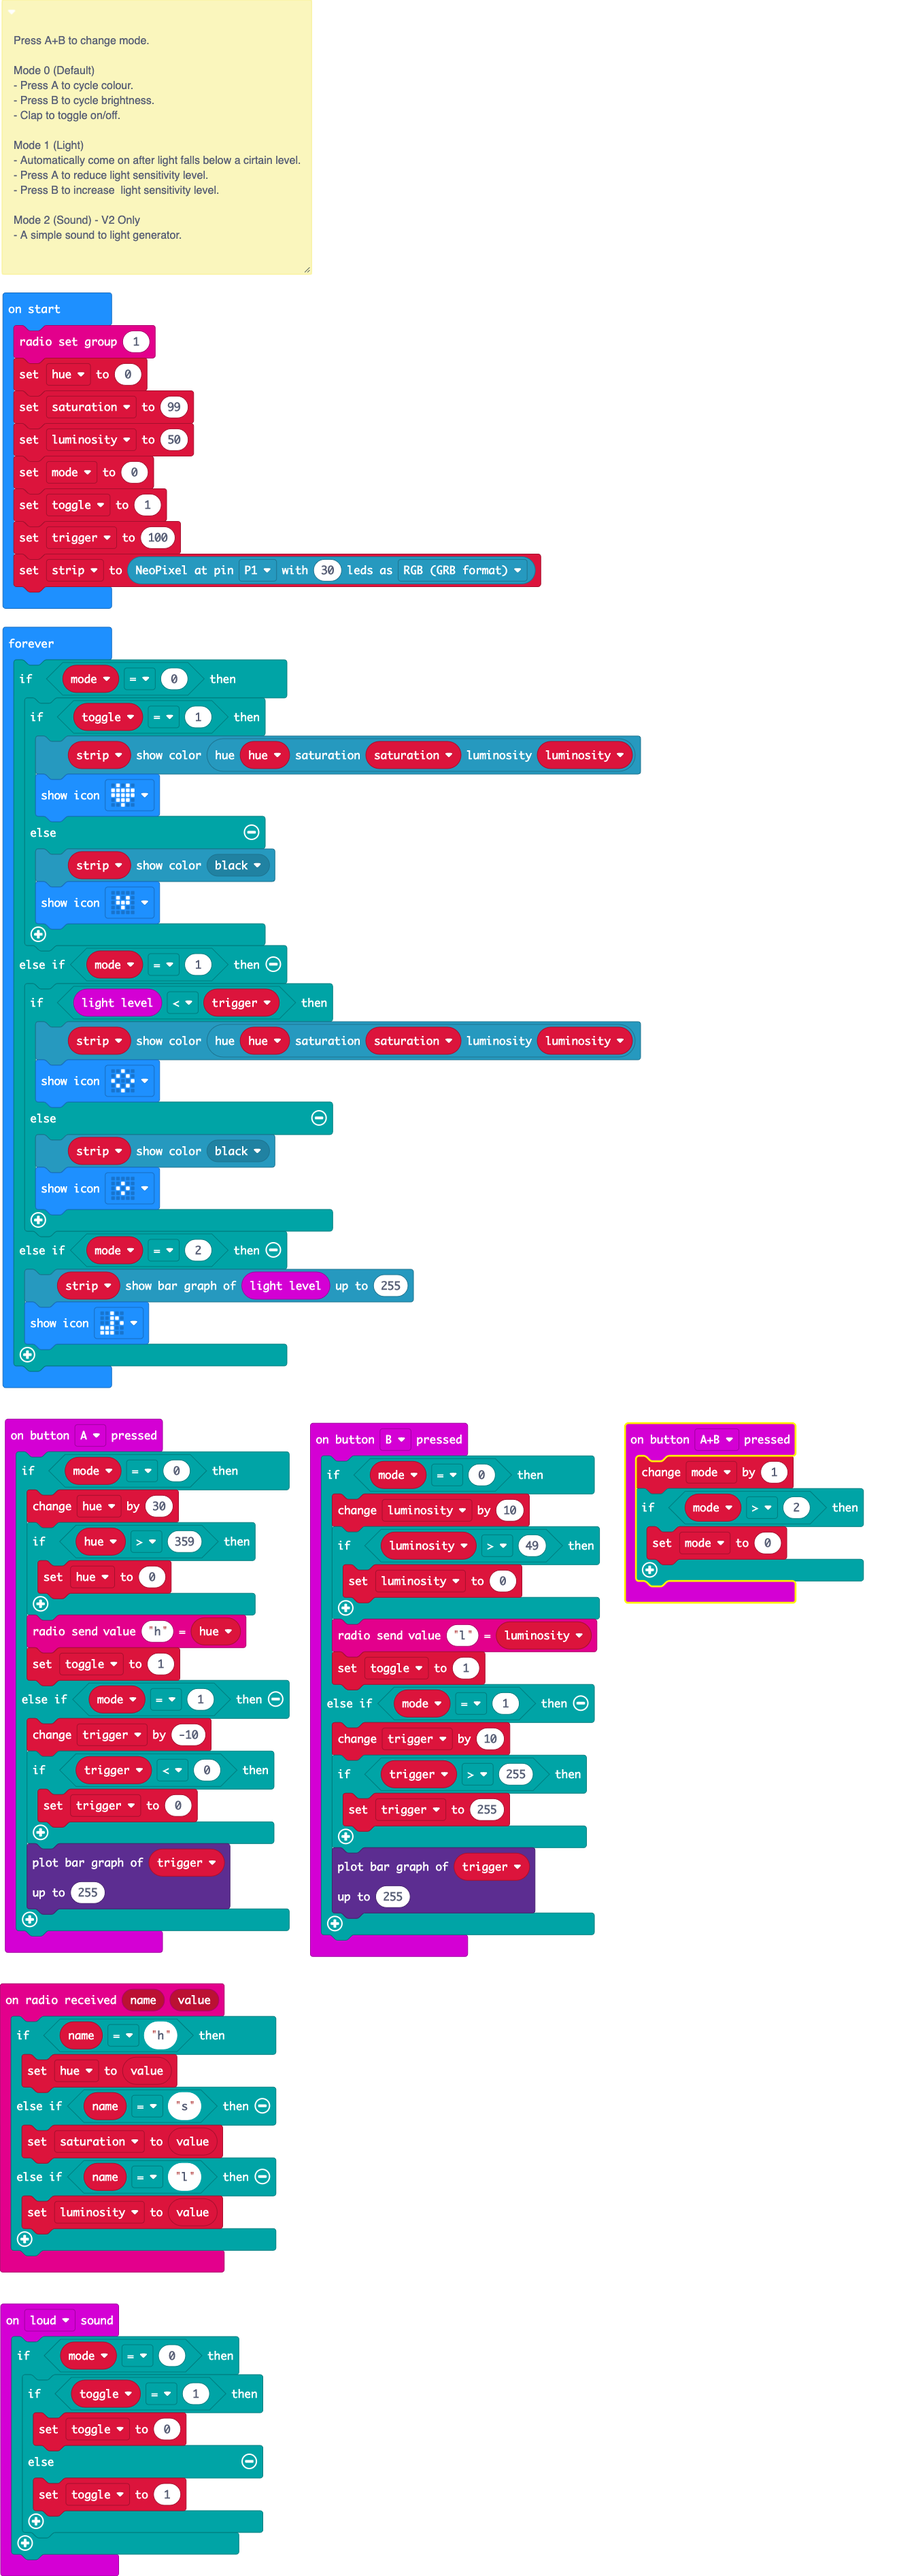
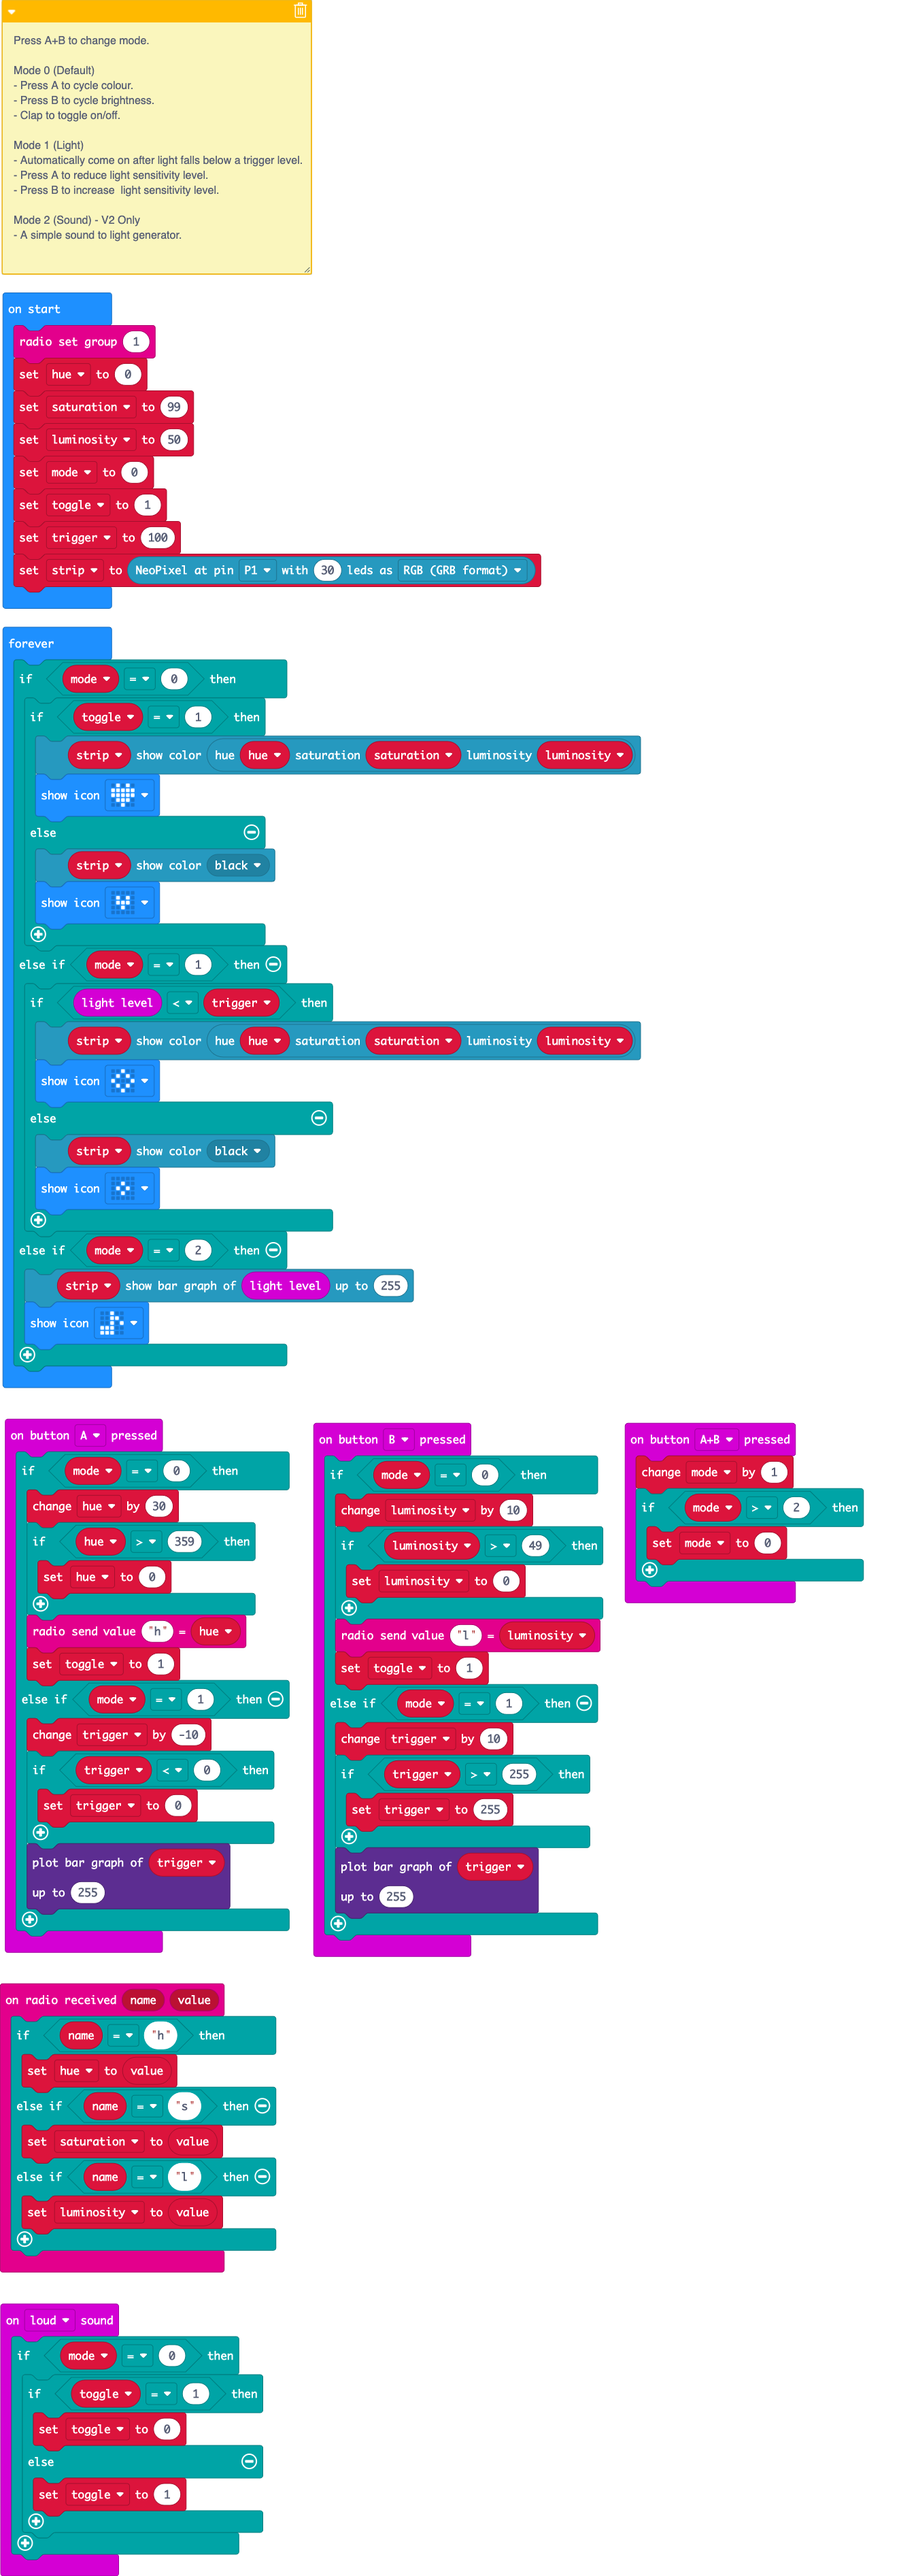
Update main.blocks, main.ts

diff --git a/main.ts b/main.ts
@@ -11,7 +11,7 @@
  * 
  * Mode 1 (Light)
  * 
- * - Automatically come on after light falls below a cirtain level.
+ * - Automatically come on after light falls below a trigger level.
  * 
  * - Press A to reduce light sensitivity level.
  * 
